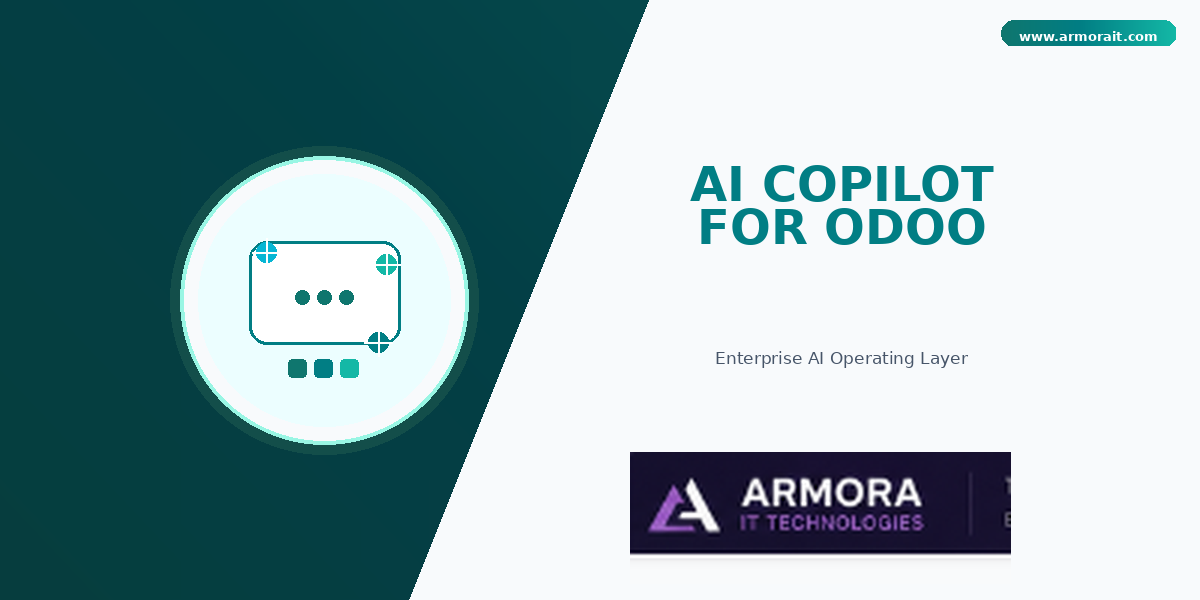
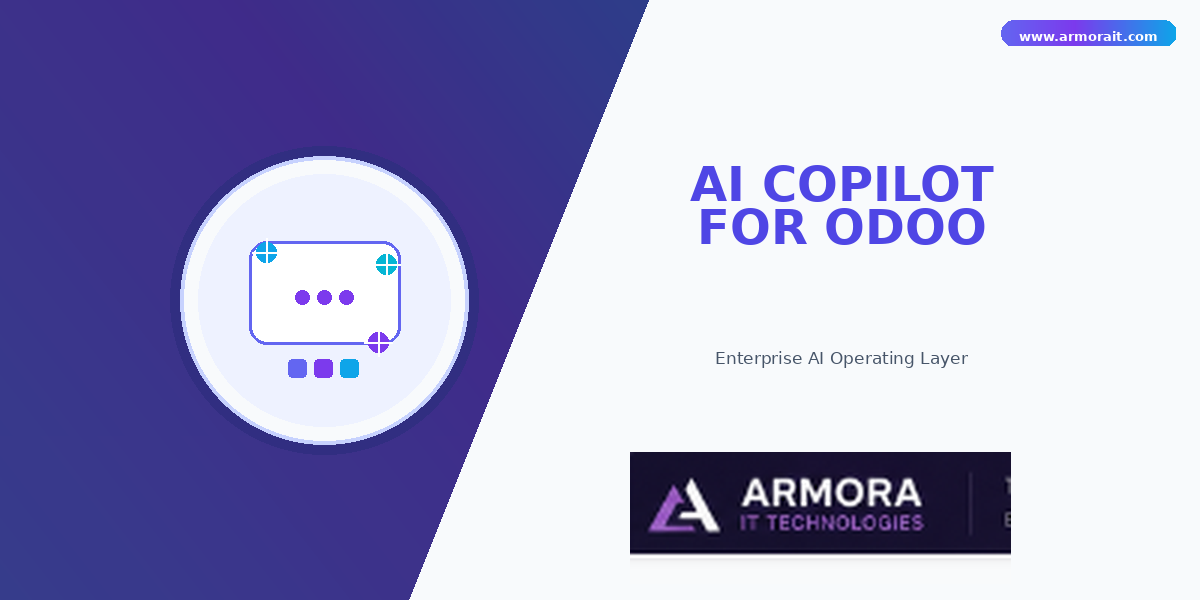
Apply screen 1 CTA gradient to Apps Store cover left panel.
Use indigo-violet-cyan wash on black-navy base for loempia_app_cover left section.

diff --git a/rn_ai_employee/scripts/generate_demo_assets.py b/rn_ai_employee/scripts/generate_demo_assets.py
@@ -332,16 +332,18 @@ def draw_briefing_scene() -> Image.Image:
     return img
 
 
-# Apps Store listing cover (Serpent layout + teal/black Armorait palette)
-BLACK_TEAL = '#041015'
+# Apps Store listing cover (Serpent layout + Armorait CTA gradient on black)
+BLACK_BASE = '#081120'
 NAVY_BLACK = '#0a1628'
 NAVY_DEEP = '#0f172a'
-TEAL_DEEP = '#0f766e'
-TEAL_MAIN = '#017E84'
-TEAL_BRIGHT = '#14b8a6'
-TEAL_CYAN = '#06b6d4'
+CTA_START = '#6366f1'
+CTA_MID = '#7c3aed'
+CTA_END = '#0ea5e9'
 TITLE_TEAL = '#017E84'
-PANEL_GLOW = '#134e4a'
+TITLE_INDIGO = '#4f46e5'
+PANEL_GLOW = '#312e81'
+TEAL_MAIN = '#017E84'
+TEAL_CYAN = '#06b6d4'
 
 
 def _hex_to_rgb(value: str) -> tuple[int, int, int]:
@@ -353,30 +355,34 @@ def _lerp_rgb(a: tuple[int, int, int], b: tuple[int, int, int], t: float) -> tup
     return tuple(int(a[i] + (b[i] - a[i]) * t) for i in range(3))
 
 
-def _gradient_rgb(t: float) -> tuple[int, int, int]:
-    """Teal gradient wash: deep teal -> brand teal -> bright cyan."""
+def _cta_gradient_rgb(t: float) -> tuple[int, int, int]:
+    """Screen 1 CTA pill: indigo -> violet -> cyan."""
     t = max(0.0, min(1.0, t))
-    start, mid, end = _hex_to_rgb(TEAL_DEEP), _hex_to_rgb(TEAL_MAIN), _hex_to_rgb(TEAL_BRIGHT)
-    if t <= 0.45:
-        return _lerp_rgb(start, mid, t / 0.45)
-    return _lerp_rgb(mid, end, (t - 0.45) / 0.55)
+    start, mid, end = _hex_to_rgb(CTA_START), _hex_to_rgb(CTA_MID), _hex_to_rgb(CTA_END)
+    if t <= 0.42:
+        return _lerp_rgb(start, mid, t / 0.42)
+    return _lerp_rgb(mid, end, (t - 0.42) / 0.58)
+
+
+def _gradient_rgb(t: float) -> tuple[int, int, int]:
+    return _cta_gradient_rgb(t)
 
 
 def _build_rich_panel_gradient(w: int, h: int) -> Image.Image:
-    """Black-teal base with cyan/teal wash for a premium left panel."""
+    """Black-navy base with screen 1 purple-blue CTA wash on the left panel."""
     panel = Image.new('RGB', (w, h))
     px = panel.load()
-    black = _hex_to_rgb(BLACK_TEAL)
+    black = _hex_to_rgb(BLACK_BASE)
     navy = _hex_to_rgb(NAVY_BLACK)
     deep = _hex_to_rgb(NAVY_DEEP)
     for y in range(h):
         ty = y / max(h - 1, 1)
         for x in range(w):
             tx = x / max(w - 1, 1)
-            glow_t = min(1.0, tx * 0.68 + (1.0 - ty) * 0.32)
-            glow = _gradient_rgb(glow_t)
-            base = _lerp_rgb(black, _lerp_rgb(navy, deep, ty * 0.5), tx * 0.35)
-            shade = 0.64 if tx < 0.55 else 0.78
+            glow_t = min(1.0, tx * 0.72 + (1.0 - ty) * 0.28)
+            glow = _cta_gradient_rgb(glow_t)
+            base = _lerp_rgb(black, _lerp_rgb(navy, deep, ty * 0.55), 0.25)
+            shade = 0.56 if tx < 0.55 else 0.70
             color = tuple(int(base[i] * shade + glow[i] * (1.0 - shade)) for i in range(3))
             px[x, y] = color
     return panel
@@ -405,7 +411,7 @@ def _draw_diagonal_cover_background(img: Image.Image, w: int, h: int) -> int:
         (split_top, 0),
         (split_bottom, h),
         (0, h),
-    ], fill=(1, 126, 132, 30))
+    ], fill=(99, 102, 241, 32))
     img.paste(glow, (0, 0), glow)
     return (split_top + split_bottom) // 2
 
@@ -454,7 +460,7 @@ def _draw_centered_title_block(
             font = _font(size, True)
             tw, th = _text_size(draw, line, font)
         x = left + (right - left - tw) // 2
-        draw.text((x, cy), line, font=font, fill=TITLE_TEAL)
+        draw.text((x, cy), line, font=font, fill=TITLE_INDIGO)
         cy += th + 6
     return cy
 
@@ -463,24 +469,24 @@ def _draw_cover_illustration(draw: ImageDraw.ImageDraw, cx: int, cy: int, radius
     """Circular AI copilot illustration on the rich navy panel."""
     glow_r = radius + 10
     draw.ellipse((cx - glow_r, cy - glow_r, cx + glow_r, cy + glow_r), fill=PANEL_GLOW)
-    draw.ellipse((cx - radius, cy - radius, cx + radius, cy + radius), fill='#F8FAFC', outline='#99F6E4', width=4)
+    draw.ellipse((cx - radius, cy - radius, cx + radius, cy + radius), fill='#F8FAFC', outline='#C7D2FE', width=4)
     inner = radius - 18
-    draw.ellipse((cx - inner, cy - inner, cx + inner, cy + inner), fill='#ECFEFF')
+    draw.ellipse((cx - inner, cy - inner, cx + inner, cy + inner), fill='#EEF2FF')
 
     bubble_w, bubble_h = int(radius * 1.05), int(radius * 0.72)
     bx1, by1 = cx - bubble_w // 2, cy - bubble_h // 2 - 8
     bx2, by2 = bx1 + bubble_w, by1 + bubble_h
-    _rounded_rect(draw, (bx1, by1, bx2, by2), 18, WHITE, outline=TEAL_MAIN, width=3)
+    _rounded_rect(draw, (bx1, by1, bx2, by2), 18, WHITE, outline=CTA_START, width=3)
     for dot_x in (cx - 22, cx, cx + 22):
-        draw.ellipse((dot_x - 7, cy - 10, dot_x + 7, cy + 4), fill=TEAL_DEEP)
+        draw.ellipse((dot_x - 7, cy - 10, dot_x + 7, cy + 4), fill=CTA_MID)
 
-    for sx, sy, color in ((cx - 58, cy - 48, TEAL_CYAN), (cx + 62, cy - 36, TEAL_BRIGHT), (cx + 54, cy + 42, TEAL_MAIN)):
+    for sx, sy, color in ((cx - 58, cy - 48, CTA_END), (cx + 62, cy - 36, TEAL_CYAN), (cx + 54, cy + 42, CTA_MID)):
         draw.ellipse((sx - 10, sy - 10, sx + 10, sy + 10), fill=color)
         draw.line((sx - 14, sy, sx + 14, sy), fill=WHITE, width=2)
         draw.line((sx, sy - 14, sx, sy + 14), fill=WHITE, width=2)
 
     bar_y = cy + bubble_h // 2 + 8
-    for i, color in enumerate((TEAL_DEEP, TEAL_MAIN, TEAL_BRIGHT)):
+    for i, color in enumerate((CTA_START, CTA_MID, CTA_END)):
         draw.rounded_rectangle((cx - 36 + i * 26, bar_y, cx - 18 + i * 26, bar_y + 18), radius=4, fill=color)
 
 
